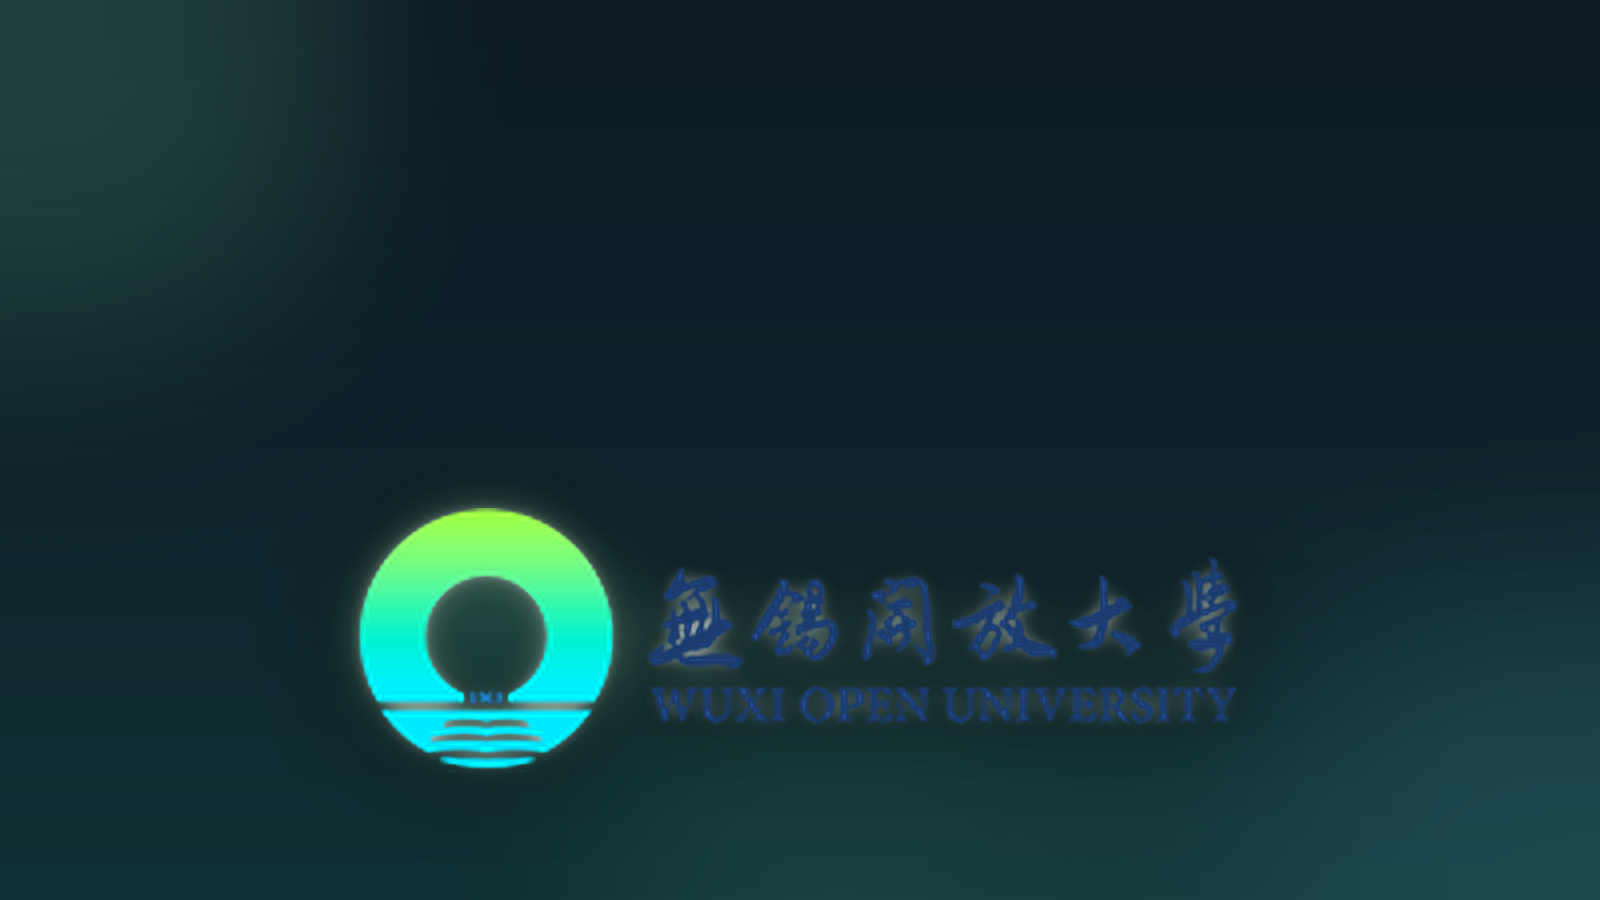
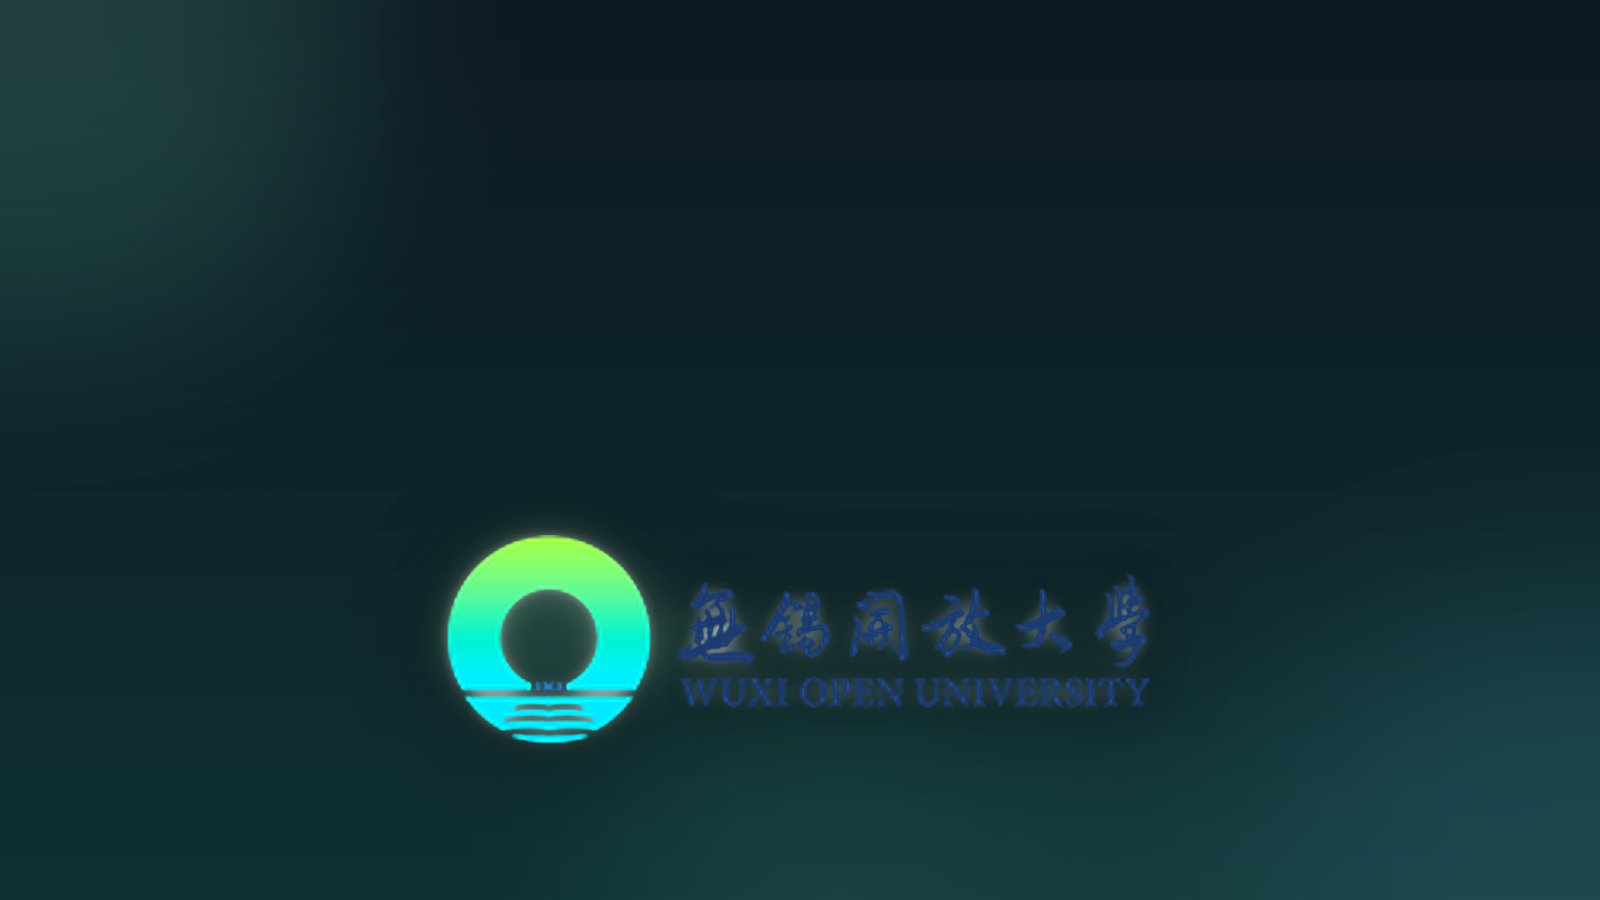
fix: 修图标裁剪与主题跟随，调整默认观感
- 图标：macOS icns 按 1024 画布/824 图形留白重制，Dock 不再裁切；新增带留白的 tray.png 替换全出血 icon.png 作托盘图标
- 主题：主题类挂到 html 根节点（主窗口 watchEffect + 弹窗 watch），body 底色、原生控件与关于页等继承文字随深浅色切换
- 深色调色：page/surface/border 换成深蓝黑系，默认主色 mint→blue
- 设置选项卡改为分段式（surface 底 + 选中浮起），去掉粗重的描边与辉光
- 顶栏智能体常亮改为纯图标光晕，避免与选中态叠加冲突
- 默认弹窗背景校徽缩小约 20% 重新合成

Changed region(s): [[0.2188, 0.56, 0.7812, 0.8711]]

diff --git a/src/style.css b/src/style.css
@@ -9,14 +9,14 @@
   --font-section: 16px;
   --font-title: 24px;
   --font-display: 32px;
-  --page-bg: #202225;
-  --sidebar-bg: #181a1d;
-  --surface: #292b2f;
-  --surface-hover: #31343a;
-  --border: #3d4148;
-  --text: #f3f4f6;
-  --muted: #a6abb3;
-  --subtle: #7d848e;
+  --page-bg: #0e131c;
+  --sidebar-bg: #0a0e16;
+  --surface: #151c29;
+  --surface-hover: #1c2534;
+  --border: #2a3345;
+  --text: #eef1f6;
+  --muted: #9aa4b5;
+  --subtle: #6f7a8e;
   --sidebar-text: #aeb4bd;
   --sidebar-heading: #f5f6f8;
   --sidebar-hover: rgba(255, 255, 255, .06);
@@ -236,10 +236,10 @@ button:focus-visible, input:focus-visible, summary:focus-visible { outline: 2px 
 .settings-group + .settings-group { margin-top: 14px; }
 .preferences-page .settings-group { margin-top: 0; }
 .preferences-page .page-header { min-height: 68px; }
-.settings-tabs { position: sticky; top: -26px; z-index: 5; display: grid; grid-template-columns: repeat(4, minmax(0, 1fr)); gap: 6px; margin-bottom: 4px; padding: 8px 0; border-bottom: 1px solid var(--border); background: color-mix(in srgb, var(--page-bg) 88%, transparent); backdrop-filter: blur(14px); -webkit-backdrop-filter: blur(14px); }
-.settings-tabs button { min-height: 38px; border: 1px solid transparent; border-radius: 9px; padding: 6px 8px; color: var(--muted); background: transparent; transition: color .18s ease, background .18s ease, border-color .18s ease, box-shadow .18s ease; }
-.settings-tabs button:hover { color: var(--text); background: var(--surface-hover); }
-.settings-tabs button[aria-selected="true"] { color: var(--accent-ink); background: var(--accent-soft); border-color: color-mix(in srgb, var(--accent) 42%, transparent); font-weight: 700; box-shadow: 0 6px 16px color-mix(in srgb, var(--accent) 16%, transparent), inset 0 -2px 0 var(--accent-ink); }
+.settings-tabs { position: sticky; top: -26px; z-index: 5; display: grid; grid-template-columns: repeat(4, minmax(0, 1fr)); gap: 4px; margin-bottom: 10px; padding: 4px; border: 1px solid var(--border); border-radius: 11px; background: var(--surface-hover); }
+.settings-tabs button { min-height: 32px; border: 0; border-radius: 8px; padding: 5px 8px; color: var(--muted); background: transparent; transition: color .16s ease, background .16s ease; }
+.settings-tabs button:hover { color: var(--text); }
+.settings-tabs button[aria-selected="true"] { color: var(--text); background: var(--surface); font-weight: 700; box-shadow: 0 1px 3px rgba(0, 0, 0, .22), inset 0 0 0 1px color-mix(in srgb, var(--accent) 40%, transparent); }
 .settings-tab-hint { margin: 0 0 10px; color: var(--subtle); font-size: var(--font-xs); letter-spacing: .02em; }
 .danger-actions { border-color: color-mix(in srgb, var(--danger) 38%, var(--border)); }
 .button.danger { color: var(--danger); border-color: color-mix(in srgb, var(--danger) 42%, var(--border)); }
@@ -486,9 +486,10 @@ button:focus-visible, input:focus-visible, summary:focus-visible { outline: 2px 
 .agent-switch-row { display: flex; align-items: center; justify-content: space-between; gap: 12px; padding: 10px 0; }
 .agent-switch-row span { color: var(--text); font-size: var(--font-sm); }
 
-/* —— 顶栏：智能体入口常亮 —— */
-.topbar-pill.featured { color: var(--accent-ink); border-color: color-mix(in srgb, var(--accent) 30%, transparent); background: color-mix(in srgb, var(--accent) 10%, transparent); }
-.topbar-pill.featured:hover { background: color-mix(in srgb, var(--accent) 18%, transparent); }
+/* —— 顶栏：智能体入口常亮（只点亮图标，不与选中态的底色冲突） —— */
+.topbar-pill.featured { color: var(--accent-ink); }
+.topbar-pill.featured svg { filter: drop-shadow(0 0 6px color-mix(in srgb, var(--accent) 65%, transparent)); }
+.topbar-pill.featured.active svg { filter: none; }
 
 /* —— 关于页团队区 —— */
 .about-team { display: grid; grid-template-columns: repeat(2, minmax(0, 1fr)); gap: 12px; }

diff --git a/src/App.vue b/src/App.vue
@@ -1,5 +1,5 @@
 <script setup lang="ts">
-import { computed, nextTick, onMounted, onUnmounted, reactive, ref, watch } from 'vue'
+import { computed, nextTick, onMounted, onUnmounted, reactive, ref, watch, watchEffect } from 'vue'
 import { getVersion } from '@tauri-apps/api/app'
 import { invoke } from '@tauri-apps/api/core'
 import { getCurrentWindow } from '@tauri-apps/api/window'
@@ -27,6 +27,16 @@ const systemTheme = window.matchMedia('(prefers-color-scheme: dark)')
 const systemDark = ref(systemTheme.matches)
 const data = ref<AppData>(defaultData())
 const displayedTheme = computed(() => data.value.settings.theme === 'system' ? (systemDark.value ? 'dark' : 'light') : data.value.settings.theme)
+
+// 主题变量同时挂到 html 根节点：body 背景、原生控件 color-scheme，以及
+// 弹窗等不经过 app-shell 的节点都能跟着深浅色走，不只靠 app-shell 一个类。
+if (!isPopup) {
+  watchEffect(() => {
+    const root = document.documentElement
+    root.classList.remove('theme-light', 'theme-dark', 'theme-system')
+    root.classList.add(`theme-${displayedTheme.value}`)
+  })
+}
 const currentView = ref<View>('rest')
 const settingsTab = ref<SettingsTab>('rhythm')
 const showForm = ref(false)

diff --git a/src/components/ReminderPopup.vue b/src/components/ReminderPopup.vue
@@ -1,5 +1,5 @@
 <script setup lang="ts">
-import { computed, nextTick, onMounted, onUnmounted, ref } from 'vue'
+import { computed, nextTick, onMounted, onUnmounted, ref, watch } from 'vue'
 import { getCurrentWindow } from '@tauri-apps/api/window'
 import { invoke } from '@tauri-apps/api/core'
 import { confirm } from '@tauri-apps/plugin-dialog'
@@ -67,6 +67,14 @@ const popupClass = computed(() => [
 // 背景图没有配置项：文件存在就显示，删掉文件就没有背景。
 const popupBackgroundUrl = ref('')
 let imageReadToken = 0
+
+// 弹窗窗口没有 app-shell 包裹，主题变量挂到 html 根上，
+// body 底色与原生控件的 color-scheme 才能跟随深浅色。
+watch(() => settings.value.theme, (theme) => {
+  const root = document.documentElement
+  root.classList.remove('theme-light', 'theme-dark', 'theme-system')
+  root.classList.add(`theme-${theme}`)
+}, { immediate: true })
 
 async function refreshPopupBackground() {
   const token = ++imageReadToken

diff --git a/src/types.ts b/src/types.ts
@@ -150,7 +150,7 @@ export const defaultData = (language: Language = 'zh-CN'): AppData => ({
     restMessage: translate(language, 'rest.defaultMessage'),
     systemNotificationEnabled: true,
     theme: 'system',
-    accentColor: 'mint',
+    accentColor: 'blue',
     popupBackgroundFit: 'stretch',
     popupBackgroundScale: 100,
     popupBackgroundOffsetX: 0,

diff --git a/src-tauri/src/lib.rs b/src-tauri/src/lib.rs
@@ -2681,11 +2681,9 @@ fn setup_tray(app: &tauri::App, language: Language) -> tauri::Result<()> {
     TrayIconBuilder::with_id(TRAY_ID)
         .menu(&menu)
         .show_menu_on_left_click(false)
-        .icon(if cfg!(target_os = "windows") {
-            tauri::include_image!("icons/32x32.png")
-        } else {
-            tauri::include_image!("icons/icon.png")
-        })
+        // 托盘图标用带留白的专用版本：macOS 菜单栏与 Windows 托盘高度有限，
+        // 全出血图形会被裁到只剩一角。
+        .icon(tauri::include_image!("icons/tray.png"))
         .tooltip("知歇")
         .on_tray_icon_event(|tray, event| {
             if matches!(
